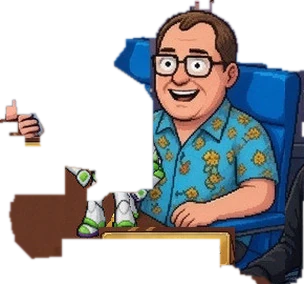
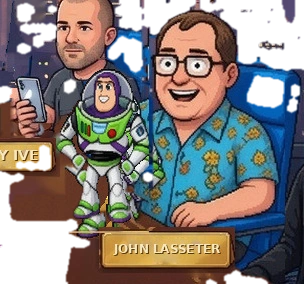
Mesa de Coetáneos: Carlo atrás detrás de la mesa, brazo de Mira, iPod de Jony y Buzz entero (t557u)
Carlo Bonomi dejaba de sentarse en la cabecera: estaba en medio de la mesa, encima de los demás, y tapaba el brazo de Mira Murati. Lo retrasamos (POS 45/35.5/12.6/25.722, placa a +1.4%) y neutralizamos el RGB de los píxeles transparentes de su recorte, que dejaban un halo rojo al escalar.

En council-coetaneos.jpg, Buzz Lightyear quedó partido al compactar la mesa el 12-nov; se recompone con el recorte intacto de antes de ese cambio. El café de Jony Ive se sustituye por un iPod clásico (blanco, rueda) sobre la mesa. Los recortes de presencia de Lasseter y Jony se regeneran a partir de esta imagen.

Misma ficha y posición en la home y en escena0. Caché 20261114-mesa. Si hace falta volver atrás: revertir el merge y republicar el 54b5b9f (v.14.11.2026.r189.18:30).

diff --git a/assets/consejo-cabecera.js b/assets/consejo-cabecera.js
@@ -8,9 +8,9 @@
   'use strict';
   var KEY = 'admira:consejo-cabecera';
   var CABECERAS = {
-    'carlo-bonomi': { id: 'carlo-bonomi', nombre: 'Carlo Bonomi', foto: '/assets/cabecera/carlo-bonomi-sentado.webp?v=20261114-cartoon', alias: ['bonomi', 'carlo', 'carlo bonomi', 'carlo-bonomi', 'carlobonomi'] }
+    'carlo-bonomi': { id: 'carlo-bonomi', nombre: 'Carlo Bonomi', foto: '/assets/cabecera/carlo-bonomi-sentado.webp?v=20261114-mesa', alias: ['bonomi', 'carlo', 'carlo bonomi', 'carlo-bonomi', 'carlobonomi'] }
   };
-  var POS = { mesa: 'coetaneos', x: 43.125, y: 36.944, w: 13.672, h: 28.056 };
+  var POS = { mesa: 'coetaneos', x: 45.0, y: 35.5, w: 12.6, h: 25.722 };
   // Demo (?demo=pan, data-demo-pan en <html>): el neón de la mesa dice «PortAventuraNeXT». Igual que LOGO_DEMO de escena0-guion.mjs.
   var LOGO = { mesa: 'coetaneos', foto: '/assets/demo/logo-portaventuranext.webp?v=20261114-pan', x: 36.5625, y: 74.1667, w: 26.4062, h: 13.3333 };
   var DEFECTO = 'carlo-bonomi';
@@ -95,7 +95,7 @@
     if (!c || gen !== POS.mesa) { el.style.display = 'none'; el.innerHTML = ''; return; }
     el.innerHTML =
       '<img alt="' + c.nombre + ' en la cabecera" data-cabecera="' + c.id + '" src="' + c.foto + '" style="position:absolute;left:' + POS.x + '%;top:' + POS.y + '%;width:' + POS.w + '%;height:' + POS.h + '%;image-rendering:auto">' +
-      '<span class="cabecera-placa" style="position:absolute;left:' + (POS.x + POS.w / 2) + '%;top:' + (POS.y + POS.h + 3) + '%;transform:translateX(-50%);white-space:nowrap;padding:.25em .7em;font:700 clamp(8px,1.05vw,15px)/1.1 Georgia,serif;letter-spacing:.06em;text-transform:uppercase;color:#3a2405;background:linear-gradient(#ffe58a,#c9a227 55%,#9c7414);border:1px solid #5a3d08;border-radius:3px;box-shadow:0 2px 0 rgba(0,0,0,.6)">' + c.nombre + '</span>';
+      '<span class="cabecera-placa" style="position:absolute;left:' + (POS.x + POS.w / 2) + '%;top:' + (POS.y + POS.h + 1.4) + '%;transform:translateX(-50%);white-space:nowrap;padding:.25em .7em;font:700 clamp(8px,1.05vw,15px)/1.1 Georgia,serif;letter-spacing:.06em;text-transform:uppercase;color:#3a2405;background:linear-gradient(#ffe58a,#c9a227 55%,#9c7414);border:1px solid #5a3d08;border-radius:3px;box-shadow:0 2px 0 rgba(0,0,0,.6)">' + c.nombre + '</span>';
     el.style.display = 'block';
   }
   root.CouncilCabecera = {

diff --git a/index.html b/index.html
@@ -4600,8 +4600,8 @@ body.rail-open{overflow:hidden}
 <script defer src="/assets/cli-ayuda.js?v=20261011-5707-selector"></script>
 <link rel="stylesheet" href="/assets/webcam.css?v=20261014-5863">
 <script defer src="/assets/webcam.js?v=20261014-5863"></script>
-<script defer src="assets/council-presencia.js?v=20261114-consejero-mesa"></script>
-<script defer src="assets/consejo-cabecera.js?v=20261114-logo"></script>
+<script defer src="assets/council-presencia.js?v=20261114-mesa"></script>
+<script defer src="assets/consejo-cabecera.js?v=20261114-mesa"></script>
 <script defer src="assets/consejo-demo.js?v=20261114-logo"></script>
 <script defer src="app.flt-100529.js?v=20261114-consejero-mesa"></script>
 <script defer src="assets/consejero-mesa.js?v=20261114-consejero-mesa"></script>

diff --git a/escena0/escena0.css b/escena0/escena0.css
@@ -55,7 +55,7 @@ body.fs #btn-fs { opacity:.55; }
 #cabecera[hidden] { display:none; }
 #cabecera img { position:absolute; inset:0; width:100%; height:100%; }
 #cabecera-placa {
-  position:absolute; left:50%; top:111%; transform:translateX(-50%); white-space:nowrap;
+  position:absolute; left:50%; top:105.5%; transform:translateX(-50%); white-space:nowrap;
   padding:.25em .7em; font:700 clamp(9px,1.05vw,16px)/1.1 Georgia,serif; letter-spacing:.06em; text-transform:uppercase;
   color:#3a2405; background:linear-gradient(#ffe58a,#c9a227 55%,#9c7414); border:1px solid #5a3d08; border-radius:3px;
   box-shadow:0 2px 0 rgba(0,0,0,.6);

diff --git a/app.flt-100529.js b/app.flt-100529.js
@@ -261,7 +261,7 @@
     let currentGen = "leyendas";
     let speakerTurnMap = {};
     let activeLegendPersona = "Steve Jobs";
-    const COUNCIL_IMAGE_VERSION = "20261112-holgado";
+    const COUNCIL_IMAGE_VERSION = "20261114-mesa";
     const LEGEND_MANDATES = {
         "Steve Jobs": {
             short: "foco producto",

diff --git a/app.js b/app.js
@@ -261,7 +261,7 @@
     let currentGen = "leyendas";
     let speakerTurnMap = {};
     let activeLegendPersona = "Steve Jobs";
-    const COUNCIL_IMAGE_VERSION = "20261112-holgado";
+    const COUNCIL_IMAGE_VERSION = "20261114-mesa";
     const LEGEND_MANDATES = {
         "Steve Jobs": {
             short: "foco producto",

diff --git a/assets/council-presencia.js b/assets/council-presencia.js
@@ -5,7 +5,7 @@
 (function (root) {
   'use strict';
   var KEY = 'admira:consejo-presencia';
-  var ASSET_V = '20261112-holgado';
+  var ASSET_V = '20261114-mesa';
   var GENS = {
     leyendas: [
       ['Steve Jobs', 'CEO', 'racional', ['jobs', 'steve jobs', 'steve-jobs']],
